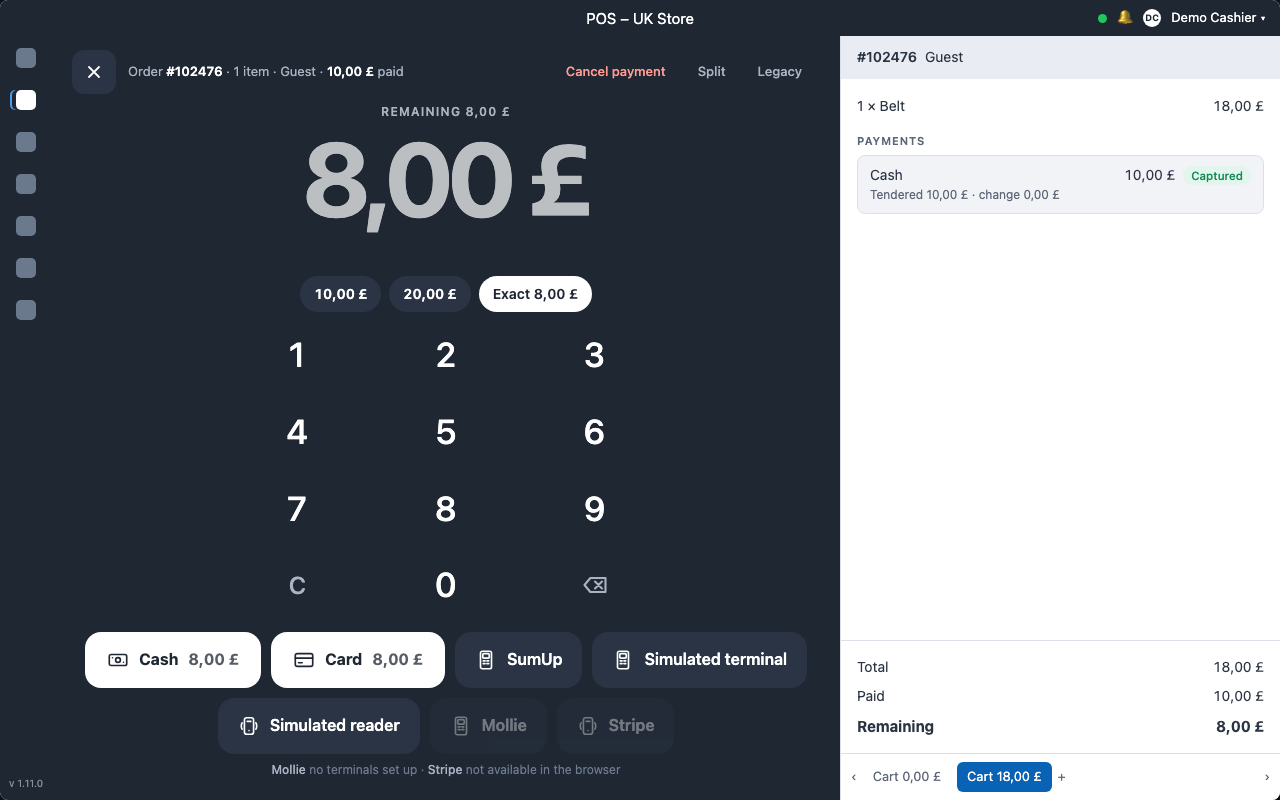
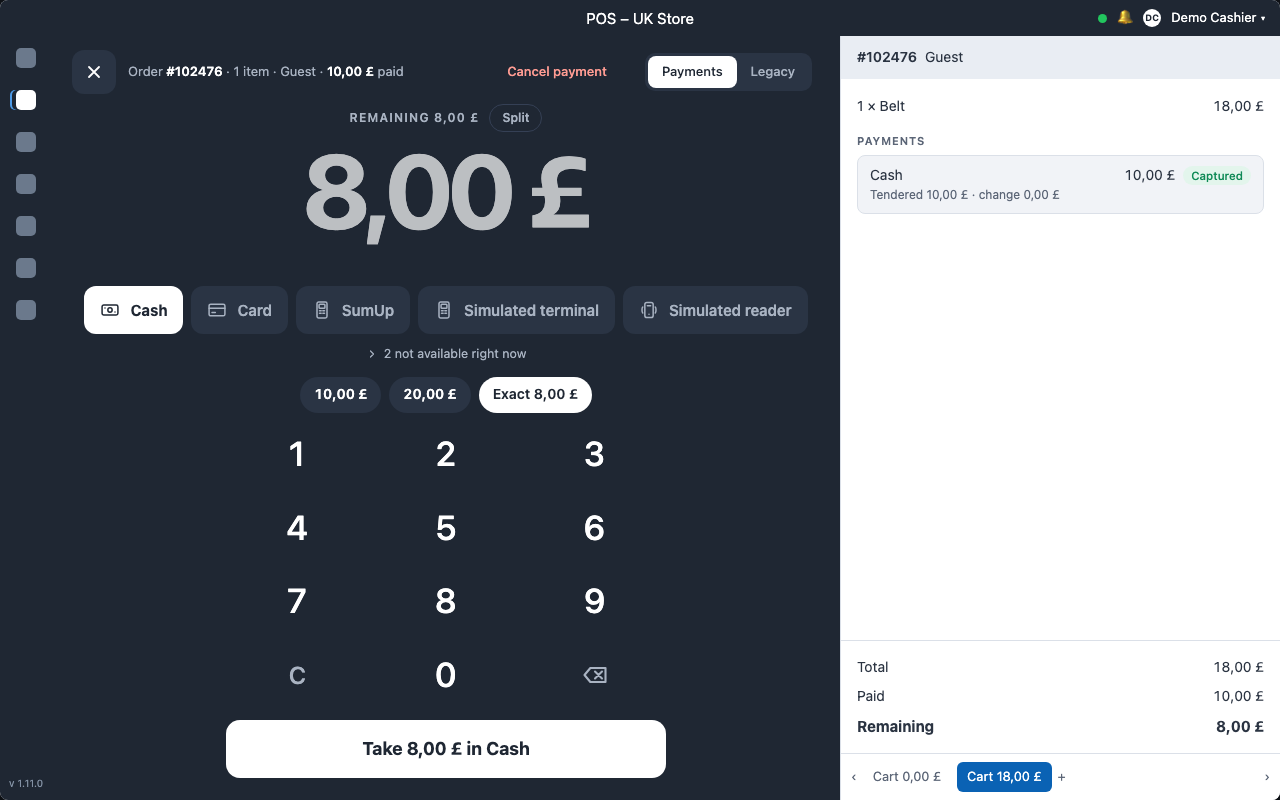
docs: tender pane round 5 — method selection step with per-method helpers, folded unavailable list, Split and Legacy separated

diff --git a/docs/prototypes/2026-09-11-tender-pane-mockups/index.html b/docs/prototypes/2026-09-11-tender-pane-mockups/index.html
@@ -49,6 +49,35 @@
   .hd .lnk{color:var(--pay-dim);cursor:pointer;padding:8px 10px;border-radius:8px;font-weight:500}
   .hd .lnk.on{background:var(--pay-2);color:var(--pay-fg)}
   .hd .lnk.danger{color:#ff9c93}
+  .seg{display:flex;background:var(--pay-2);border-radius:10px;padding:3px;height:38px;margin-left:16px}
+  .seg span{padding:0 14px;border-radius:8px;color:var(--pay-dim);font-size:13px;display:inline-flex;align-items:center;font-weight:500;cursor:pointer}
+  .seg span.on{background:var(--pay-fg);color:var(--pay)}
+  .lblrow{display:flex;justify-content:center;align-items:center;gap:10px}
+  .splitchip{height:28px;padding:0 12px;border-radius:99px;border:1px solid var(--pay-3);color:var(--pay-dim);font-size:12px;font-weight:600;display:inline-flex;align-items:center;cursor:pointer;text-transform:none;letter-spacing:0}
+  .splitchip.on{background:var(--pay-fg);color:var(--pay);border-color:transparent}
+  .sel{display:flex;flex-wrap:wrap;gap:8px;justify-content:center;margin-top:12px;flex:none}
+  .sel .m{height:48px;font-size:15px;padding:0 16px;border-radius:12px;background:var(--pay-2);color:var(--pay-dim)}
+  .sel .m.on{background:var(--pay-fg);color:var(--pay);font-weight:700}
+  .sel .m .ic{width:20px;height:20px}
+  .unav{text-align:center;margin-top:8px;font-size:12.5px;color:var(--pay-faint)}
+  .unav .h{cursor:pointer;display:inline-flex;align-items:center;gap:6px;padding:4px 8px;border-radius:8px;color:var(--pay-dim)}
+  .unav .h:hover{background:var(--pay-2)}
+  .unav .h .car{width:12px;height:12px;transition:transform .15s}
+  .unav.closed .h .car{transform:rotate(-90deg)}
+  .unav ul{list-style:none;margin:6px auto 0;padding:0;display:grid;gap:4px;max-width:440px}
+  .unav li{display:flex;align-items:center;gap:10px;padding:6px 10px;border-radius:8px;background:var(--pay-2);color:var(--pay-dim);font-size:13px}
+  .unav li .ic{width:16px;height:16px;opacity:.7}.unav li .ic svg{width:100%;height:100%;display:block}
+  .unav li b{font-weight:600;color:var(--pay-fg)}
+  .unav li .why{margin-left:auto;color:var(--pay-faint)}
+  .unav.closed ul{display:none}
+  .helpers{display:flex;justify-content:center;align-items:center;gap:8px;margin-top:10px;min-height:36px;flex-wrap:wrap}
+  .helpers .reader{display:inline-flex;align-items:center;gap:8px;font-size:13px;color:var(--pay-dim);height:36px;padding:0 12px;border-radius:99px;background:var(--pay-2)}
+  .helpers .reader svg{width:16px;height:16px}
+  .helpers .reader a{color:var(--pay-fg);font-weight:600;cursor:pointer;margin-left:4px}
+  .commit{display:flex;justify-content:center;margin-top:10px;flex:none}
+  .commit .btn{width:100%;max-width:440px;height:58px;font-size:18px}
+  .commit .btn.disabled{opacity:.45;cursor:default}
+  .frame.phone .commit .btn{max-width:none}
   .frame.light .hd .lnk.danger{color:var(--destructive)}
   .amt{text-align:center;margin:10px 0 0;flex:none}
   .amt .lbl{font-size:12px;letter-spacing:.1em;text-transform:uppercase;color:var(--pay-dim);font-weight:600;min-height:16px}
@@ -66,16 +95,15 @@
   .badge{display:inline-flex;align-items:center;gap:5px;font-size:12px;padding:3px 9px;border-radius:99px;background:var(--pay-2);color:var(--pay-dim);font-weight:500}
   .badge.warn{color:var(--pay-warn)}
   .badge svg{width:12px;height:12px}
-  .quick{display:flex;justify-content:center;gap:8px;margin-top:14px;min-height:36px}
+  .quick{display:flex;justify-content:center;gap:8px;min-height:36px}
   .q{height:36px;padding:0 14px;border-radius:99px;background:var(--pay-2);color:var(--pay-fg);font-weight:600;font-size:14px;display:inline-flex;align-items:center;cursor:pointer;font-variant-numeric:tabular-nums;transition:transform .08s}
   .q:active{transform:scale(.96)}
   .q.on{background:var(--pay-fg);color:var(--pay)}
   .keys{display:grid;grid-template-columns:repeat(3,1fr);gap:4px 6px;max-width:440px;width:100%;margin:6px auto 0;flex:1;min-height:0}
   .frame.phone .keys{max-width:none;flex:none;grid-auto-rows:54px;margin-top:2px}
   .frame.phone .pay{overflow:auto}
-  .frame.phone .methods{flex-wrap:nowrap;overflow-x:auto;justify-content:flex-start;padding-bottom:4px;margin-left:-16px;margin-right:-16px;padding-left:16px;padding-right:16px}
-  .frame.phone .m{height:52px;flex:none}
-  .frame.phone .whyline{white-space:nowrap;overflow:hidden;text-overflow:ellipsis}
+  .frame.phone .sel{flex-wrap:nowrap;overflow-x:auto;justify-content:flex-start;padding-bottom:4px;margin-left:-16px;margin-right:-16px;padding-left:16px;padding-right:16px}
+  .frame.phone .sel .m{flex:none}
   .k{display:flex;align-items:center;justify-content:center;font-size:34px;font-weight:500;color:var(--pay-fg);border-radius:14px;cursor:pointer;user-select:none;transition:background .08s,transform .08s;font-variant-numeric:tabular-nums}
   .k:active{background:var(--pay-2);transform:scale(.96)}
   .k.sub{font-size:24px;color:var(--pay-dim)}
@@ -160,10 +188,13 @@
   <div class="grp"><b>Jump to</b>
     <button data-jump="fresh">Fresh sale</button>
     <button data-jump="typed">Typed 20</button>
+    <button data-jump="card">Card selected</button>
+    <button data-jump="sumup">SumUp selected</button>
     <button data-jump="split">Split 2 ways</button>
     <button data-jump="partpaid">After a cash leg</button>
     <button data-jump="terminal">On the terminal</button>
     <button data-jump="paid">Paid</button>
+    <button data-jump="unavail">Unavailable list open</button>
   </div>
   <div class="grp"><b>Network</b><button data-set="offline" data-val="0">online</button><button data-set="offline" data-val="1">offline</button></div>
   <div class="grp"><b>Surface</b><button data-set="surface" data-val="slate">Slate</button><button data-set="surface" data-val="blue">Blue</button><button data-set="surface" data-val="light">Light</button></div>
@@ -225,7 +256,8 @@ const METHODS = [
   { id:'stripe', kind:'reader',   title:'Stripe', device:true, why:'not available in the browser' },
 ];
 const TOTAL = 18.00;
-const S = { entry:null, split:'0', offline:0, surface:'slate', phone:0, legs:[], view:'keypad', term:null, timers:[] };
+const S = { entry:null, split:'0', offline:0, surface:'slate', phone:0, legs:[], view:'keypad', term:null, timers:[], method:'cash', unavailOpen:0 };
+I.caret='<svg viewBox="0 0 24 24" fill="none" stroke="currentColor" stroke-width="2.4" stroke-linecap="round" stroke-linejoin="round"><path d="M6 9l6 6 6-6"/></svg>';
 
 const paidSoFar = () => S.legs.reduce((a,l)=>a+l.amount,0);
 function figures(){
@@ -238,35 +270,50 @@ const methods = () => METHODS.map(m => { let why = m.why || null; if (S.offline 
 const clearTimers = () => { S.timers.forEach(clearTimeout); S.timers = []; };
 
 function keypadView(f){
+  const ms = methods();
+  const ons = ms.filter(m=>!m.off), offs = ms.filter(m=>m.off);
+  if (!ons.find(m=>m.id===S.method)) S.method = ons[0] ? ons[0].id : null;
+  const m = ons.find(x=>x.id===S.method) || null;
   const entry = S.entry ?? f.thisPay;
   const ghost = S.entry === null;
-  const change = entry > f.thisPay ? entry - f.thisPay : 0;
+  const applied = Math.min(entry, f.thisPay);
+  const change = m && m.change && entry > f.thisPay ? entry - f.thisPay : 0;
   const short = entry < f.thisPay ? f.thisPay - entry : 0;
-  const note = [5,10,20,50].filter(n => n > f.thisPay).slice(0,2);
-  const ms = methods();
-  const offs = ms.filter(m=>m.off);
   let line = '';
   if (change>0) line = `<span class="chg">Change ${fmt(change)}</span>`;
+  else if (m && !m.change && entry > f.thisPay) line = `<span class="short">Only ${fmt(f.thisPay)} is due — ${m.title} can't give change</span>`;
   else if (short>0 && entry>0) line = `<span class="short">${fmt(short)} still to take after this</span>`;
   else if (f.plan) line = `<span class="plan">${f.plan.txt}</span>${f.plan.legs.map(l=>`<span class="leg ${l.k}">${fmt(l.v)}</span>`).join('')}`;
   const offline = S.offline ? `<span class="badge warn">${I.wifi} Offline · cash and card only</span>` : '';
+  // helpers change with the selected method
+  let helpers = '';
+  if (m && m.change){
+    const notes = [5,10,20,50].filter(n => n > f.thisPay).slice(0,2);
+    helpers = `<div class="quick">${notes.map(n=>`<span class="q ${entry===n?'on':''}" data-q="${n}">${fmt(n)}</span>`).join('')}<span class="q ${ghost?'on':''}" data-q="exact">Exact ${fmt(f.thisPay)}</span></div>`;
+  } else if (m && (m.server || m.device)){
+    helpers = `<span class="reader">${m.device ? I.reader : I.terminal} ${m.model} · ${m.reader} · <span class="dot"></span> connected · 82% <a>Change</a></span><span class="q ${ghost?'on':''}" data-q="exact">Full balance ${fmt(f.thisPay)}</span>`;
+  } else if (m){
+    helpers = `<span class="q ${ghost?'on':''}" data-q="exact">Full balance ${fmt(f.thisPay)}</span>`;
+  }
+  const commitLabel = !m ? 'Choose how the customer is paying' : (m.server||m.device) ? `Send ${fmt(applied)} to ${m.title}` : `Take ${fmt(applied)} in ${m.title}`;
+  const canCommit = m && applied > 0 && !(m && !m.change && entry > f.thisPay);
   return `
   <div class="hd">
     <span class="x" data-close>${I.close}</span>
     <span class="title">Order <b>#102476</b> · 1 item · Guest${f.paid>0 ? ` · <b>${fmt(f.paid)}</b> paid` : ''}</span>
     ${S.legs.length ? '<span class="lnk danger" data-cancel-payment>Cancel payment</span>' : ''}
-    <span class="lnk ${S.split!=='0'?'on':''}" data-split>Split</span>
-    <span class="lnk">Legacy</span>
+    <div class="seg"><span class="on">Payments</span><span>Legacy</span></div>
   </div>
   <div class="amt">
-    <div class="lbl">${f.paid>0 ? 'Remaining' : 'To pay'} ${fmt(f.thisPay)} ${offline}</div>
+    <div class="lblrow"><span class="lbl">${f.paid>0 ? 'Remaining' : 'To pay'} ${fmt(f.thisPay)}</span>${f.remaining>0 ? `<span class="splitchip ${S.split!=='0'?'on':''}" data-split>${S.split!=='0' ? 'Split 2 ways' : 'Split'}</span>` : ''}${offline}</div>
     <div class="big ${ghost?'ghost':''}" id="big">${fmt(entry)}</div>
     <div class="line">${line}</div>
   </div>
-  <div class="quick">${note.map(n=>`<span class="q ${entry===n?'on':''}" data-q="${n}">${fmt(n)}</span>`).join('')}<span class="q ${ghost?'on':''}" data-q="exact">Exact ${fmt(f.thisPay)}</span></div>
+  <div class="sel">${ons.map(x=>`<span class="m ${x.id===S.method?'on':''}" data-pick="${x.id}"><span class="ic">${I[x.kind]}</span>${x.title}</span>`).join('')}</div>
+  ${offs.length ? `<div class="unav ${S.unavailOpen?'':'closed'}"><span class="h" data-unavail><span class="car">${I.caret}</span>${offs.length} not available right now</span><ul>${offs.map(x=>`<li><span class="ic">${I[x.kind]}</span><b>${x.title}</b><span class="why">${x.why}</span></li>`).join('')}</ul></div>` : ''}
+  <div class="helpers">${helpers}</div>
   <div class="keys">${['1','2','3','4','5','6','7','8','9'].map(k=>`<span class="k" data-key="${k}">${k}</span>`).join('')}<span class="k sub" data-key="C">C</span><span class="k" data-key="0">0</span><span class="k sub" data-key="⌫">${I.del}</span></div>
-  <div class="methods">${ms.map(m=>`<span class="m ${m.primary?'primary':''} ${m.off?'off':''}" ${m.off?'':`data-take="${m.id}"`}><span class="ic">${I[m.kind]}</span>${m.title}${m.primary && !m.off ? ` <span class="amt-in">${fmt(Math.min(entry, f.thisPay))}</span>` : ''}</span>`).join('')}</div>
-  <div class="whyline">${offs.length ? offs.map(m=>`<b>${m.title}</b> ${m.why}`).join(' · ') : ''}</div>`;
+  <div class="commit"><span class="btn white ${canCommit?'':'disabled'}" ${canCommit && m ? `data-take="${m.id}"` : ''}>${commitLabel}</span></div>`;
 }
 
 function terminalView(f){
@@ -333,6 +380,7 @@ function take(id){
     return;
   }
   const change = m.change ? entry - applied : 0;
+  if (!m.change && entry > applied) return;
   land(m, applied, change, m.change ? `Tendered ${fmt(applied+change)} · change ${fmt(change)}` : 'Manual entry');
 }
 function land(m, applied, change, detail){
@@ -343,8 +391,11 @@ function land(m, applied, change, detail){
   render();
 }
 function jump(name){
-  clearTimers(); S.entry=null; S.split='0'; S.legs=[]; S.view='keypad'; S.term=null;
+  clearTimers(); S.entry=null; S.split='0'; S.legs=[]; S.view='keypad'; S.term=null; S.method='cash'; S.unavailOpen=0;
   if (name==='typed') S.entry = 20;
+  if (name==='card') S.method = 'card';
+  if (name==='sumup') S.method = 'sumup';
+  if (name==='unavail') S.unavailOpen = 1;
   if (name==='split') S.split = '2';
   if (name==='partpaid') S.legs = [{title:'Cash', amount:10, change:0, detail:'Tendered 10,00 £ · change 0,00 £'}];
   if (name==='terminal'){ S.view='terminal'; S.term={method:'sumup', amount:18, step:1}; }
@@ -367,6 +418,8 @@ document.getElementById('pay').addEventListener('click', e => {
     S.entry = next==='' ? 0 : +next/100; return render();
   }
   const q = t.closest('[data-q]'); if (q){ S.entry = q.dataset.q==='exact' ? null : +q.dataset.q; return render(); }
+  const pk = t.closest('[data-pick]'); if (pk){ S.method = pk.dataset.pick; S.entry = null; return render(); }
+  if (t.closest('[data-unavail]')){ S.unavailOpen = S.unavailOpen ? 0 : 1; return render(); }
   const m = t.closest('[data-take]'); if (m) return take(m.dataset.take);
   if (t.closest('[data-split]')){ S.split = S.split==='0' ? '2' : '0'; S.entry=null; return render(); }
   if (t.closest('[data-close]') || t.closest('[data-new]')) return jump('fresh');
@@ -381,7 +434,7 @@ document.addEventListener('keydown', e => {
     const next = e.key==='Backspace' ? cur.slice(0,-1) : (cur + e.key).slice(0,7);
     S.entry = next==='' ? 0 : +next/100; render();
   }
-  if (e.key==='Enter') take('cash');
+  if (e.key==='Enter' && S.method) take(S.method);
 });
 render();
 </script>

diff --git a/docs/prototypes/2026-09-11-tender-pane-mockups/README.md b/docs/prototypes/2026-09-11-tender-pane-mockups/README.md
@@ -16,7 +16,7 @@ The dark strip at the top is not part of the design.
 
 | Control | What it changes |
 |---|---|
-| **Jump to** | Fresh sale · Typed 20 · Split 2 ways · After a cash leg · On the terminal · Paid |
+| **Jump to** | Fresh sale · Typed 20 · Card selected · SumUp selected · Split 2 ways · After a cash leg · On the terminal · Paid · Unavailable list open |
 | **Network** | offline: one badge by the label, the dot in the top bar, terminal pills faded with one line under the row saying why |
 | **Surface** | Slate (the sidebar colour) · Blue (brand) · Light |
 | **Width** | Tablet (1280, ledger beside) or Phone (390, ledger folded to a balance bar, method row scrolls) |
@@ -26,7 +26,7 @@ Keyboard: digits and Backspace type, Enter takes cash, Esc closes.
 ## What it does
 
 - **The amount is the screen.** Balance pre-typed, dimmed until you type; the change line rises as you type; a short amount says what is still to take.
-- **The method is the commit.** Cash and Card are white and carry the amount they will take. Terminals and readers sit in the same row in POS-settings order and wrap; unavailable ones fade with one quiet line under the row.
+- **Choose the method, then commit** (round 5, after Paul's notes). The method row under the amount is a selector; the helpers change with it (notes + Exact for cash, Full balance for card, reader line + Change for a terminal); one white button at the bottom names the action. Unavailable gateways sit in a folded *N not available right now* list with reasons. Payments / Legacy is a segmented control at the far right; Split is a chip beside the To pay label.
 - **Card → terminal moment → Paid.** No confirm screen. The Paid moment is full-bleed green, the tick draws, change is the headline for cash, then Print / Email / No receipt · New sale.
 - **Split** is a header action that turns the amount into a plan and pre-types the leg. Custom amounts: type.
 - **Close, not an arrow.**
